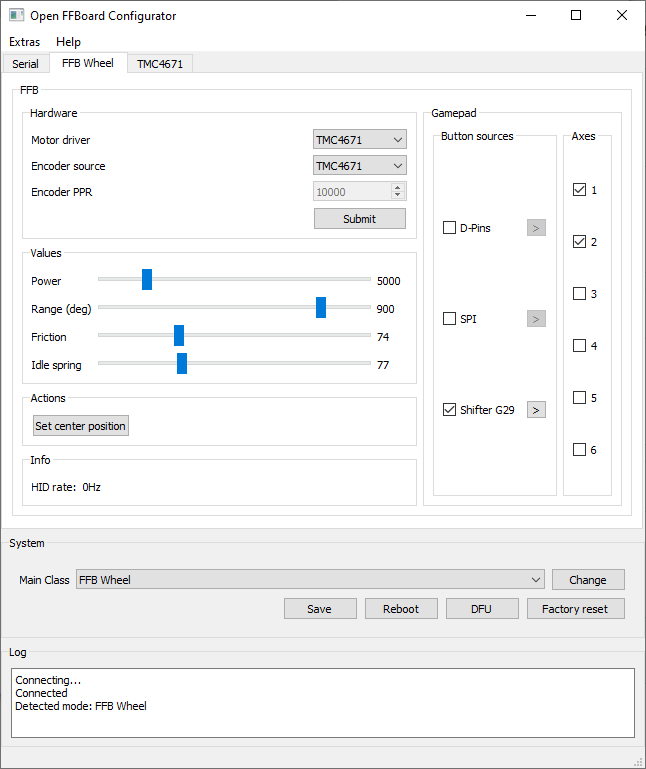
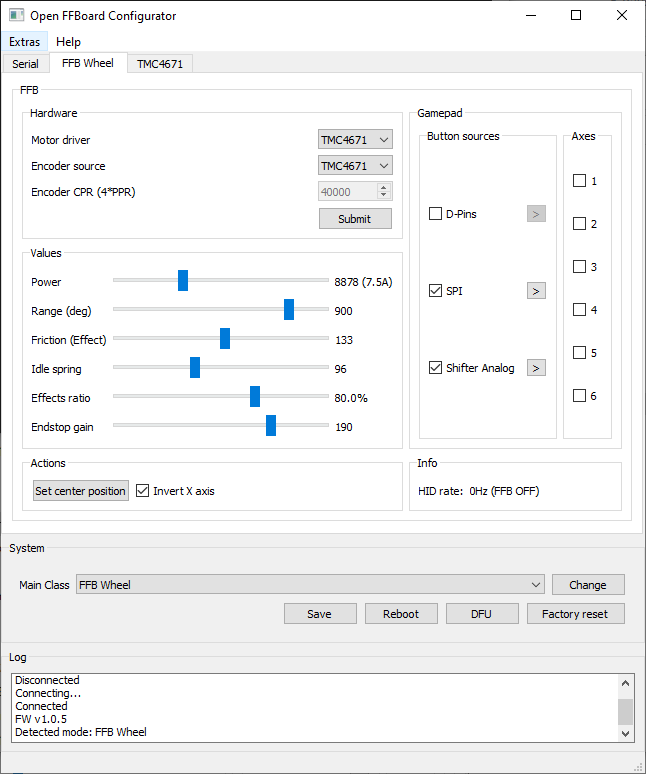
Slider limits fx range     Adding a pyinstaller build script for windows Renamed PPR to CPR

diff --git a/ffb_ui.py b/ffb_ui.py
@@ -11,7 +11,6 @@ from base_ui import WidgetUI
 
 class FfbUI(WidgetUI):
 
-    endstop_margin = 0.7
     amp_gain = 60
     shunt_ohm = 0.0015
     
@@ -64,7 +63,7 @@ class FfbUI(WidgetUI):
         self.buttonbtns.buttonClicked.connect(self.buttonsChanged)
         self.pushButton_center.clicked.connect(lambda : self.main.serialWrite("zeroenc\n"))
         
-        #self.spinBox_ppr.valueChanged.connect(lambda v : self.main.serialWrite("ppr="+str(v)+";"))
+        #self.spinBox_cpr.valueChanged.connect(lambda v : self.main.serialWrite("cpr="+str(v)+";"))
 
 
 
@@ -142,7 +141,7 @@ class FfbUI(WidgetUI):
     def fxratio_changed(self,val):
 
         self.main.serialWrite("fxratio="+str(val)+"\n")
-        ratio = 1-(self.endstop_margin * ((255-val) / 255))
+        ratio = val / 255
         text = str(round(100*ratio,1)) + "%"
         self.label_fxratio.setText(text)
 
@@ -156,10 +155,10 @@ class FfbUI(WidgetUI):
         self.main.serialWrite("btntypes="+str(mask)+"\n")
 
     def submitHw(self):
-        val = self.spinBox_ppr.value()
+        val = self.spinBox_cpr.value()
         self.driverChanged(self.comboBox_driver.currentIndex())
         self.encoderChanged(self.comboBox_encoder.currentIndex())
-        self.main.serialWrite("ppr="+str(val)+"\n")
+        self.main.serialWrite("cpr="+str(val)+"\n")
 
     def save(self):
         self.main.serialWrite("save\n")
@@ -240,7 +239,7 @@ class FfbUI(WidgetUI):
 
     def getEncoder(self):
         #self.comboBox_encoder.currentIndexChanged.disconnect()
-        self.spinBox_ppr.setEnabled(True)
+        self.spinBox_cpr.setEnabled(True)
 
         dat = self.main.serialGet("enctype!\n")
         self.comboBox_encoder.clear()
@@ -256,11 +255,11 @@ class FfbUI(WidgetUI):
         idx = self.encIds[self.encId][0] if self.encId in self.encIds else 0
         self.comboBox_encoder.setCurrentIndex(idx)
         
-        ppr = self.main.serialGet("ppr?\n")
-        self.spinBox_ppr.setValue(int(ppr))
+        vpr = self.main.serialGet("cpr?\n")
+        self.spinBox_cpr.setValue(int(vpr))
 
         if(self.encId == 1):
-            self.spinBox_ppr.setEnabled(False)
+            self.spinBox_cpr.setEnabled(False)
        # self.comboBox_encoder.currentIndexChanged.connect(self.encoderChanged)
         
 

diff --git a/tmc4671_ui.py b/tmc4671_ui.py
@@ -66,7 +66,7 @@ class TMC4671Ui(WidgetUI):
         poles = self.spinBox_poles.value()
         cmd+="poles="+str(poles)+";"
 
-        cmd+="pprtmc="+str(self.spinBox_ppr.value())+";"
+        cmd+="cprtmc="+str(self.spinBox_cpr.value())+";"
 
         enc = self.comboBox_enc.currentIndex()
         cmd+="encsrc="+str(enc)+";"
@@ -132,7 +132,7 @@ class TMC4671Ui(WidgetUI):
         if(enc):
             self.comboBox_enc.setCurrentIndex(enc)
             
-            self.spinBox_ppr.setValue(int(self.main.serialGet("pprtmc?\n")))
+            self.spinBox_cpr.setValue(int(self.main.serialGet("cprtmc?\n")))
                 
 
     def getPids(self):

diff --git a/main.py b/main.py
@@ -12,10 +12,10 @@ from helper import res_path
 import serial_ui
 
 # This GUIs version
-version = "1.0.4"
+version = "1.0.6"
 # Minimal supported firmware version. 
 # Major version of firmware must match firmware. Minor versions must be higher or equal
-min_fw = "1.0.3" 
+min_fw = "1.0.5"
 
 # UIs
 import system_ui
